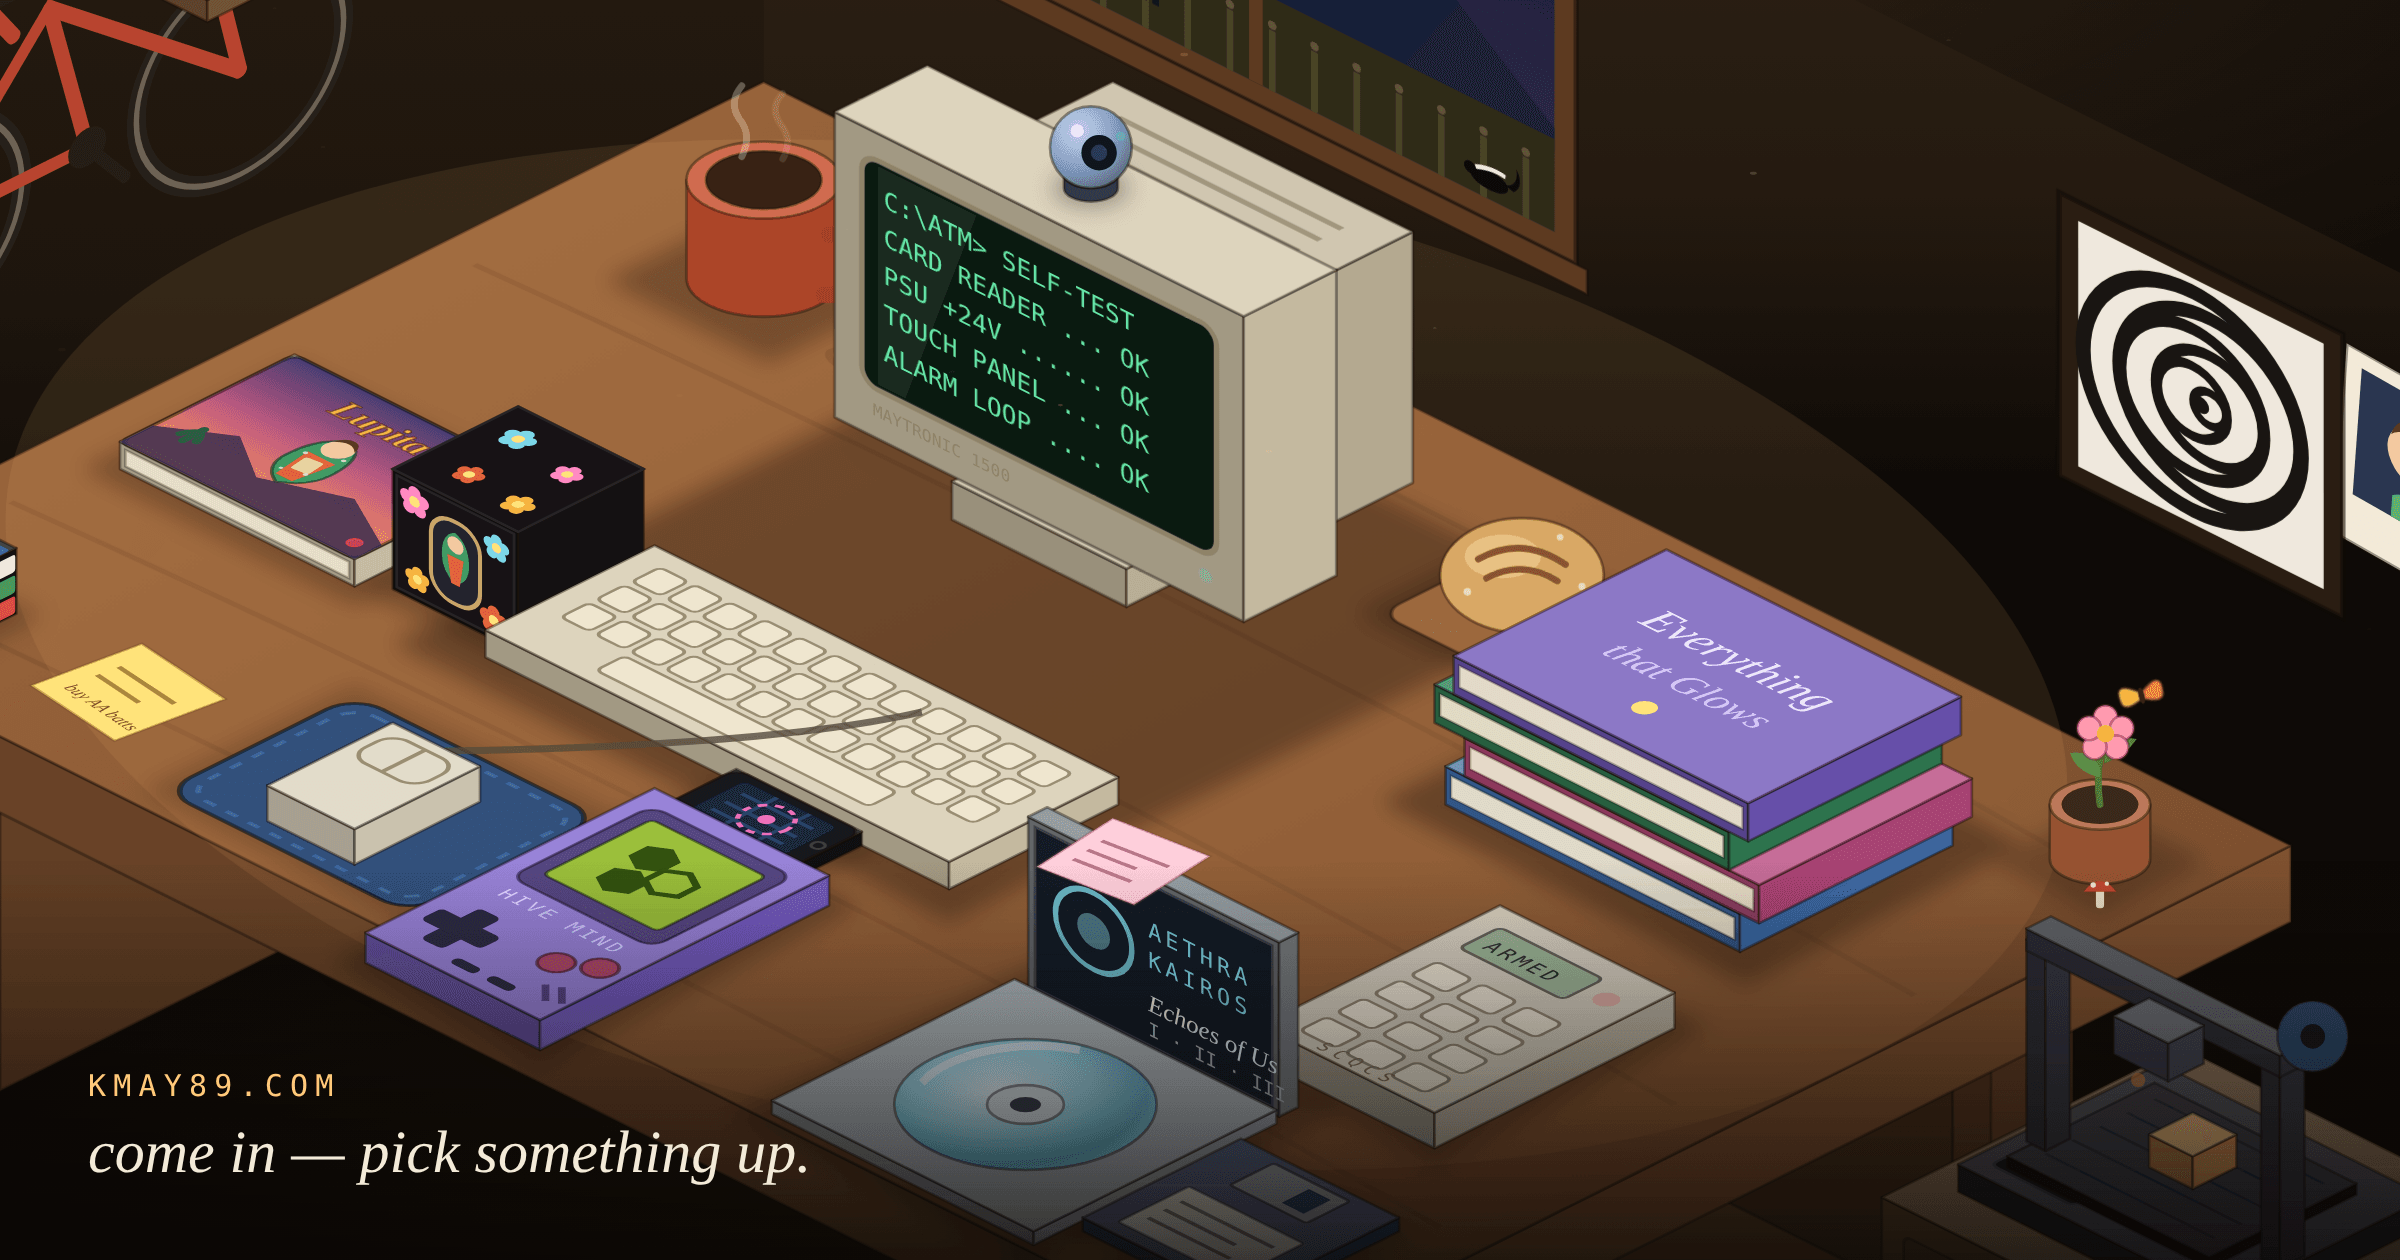
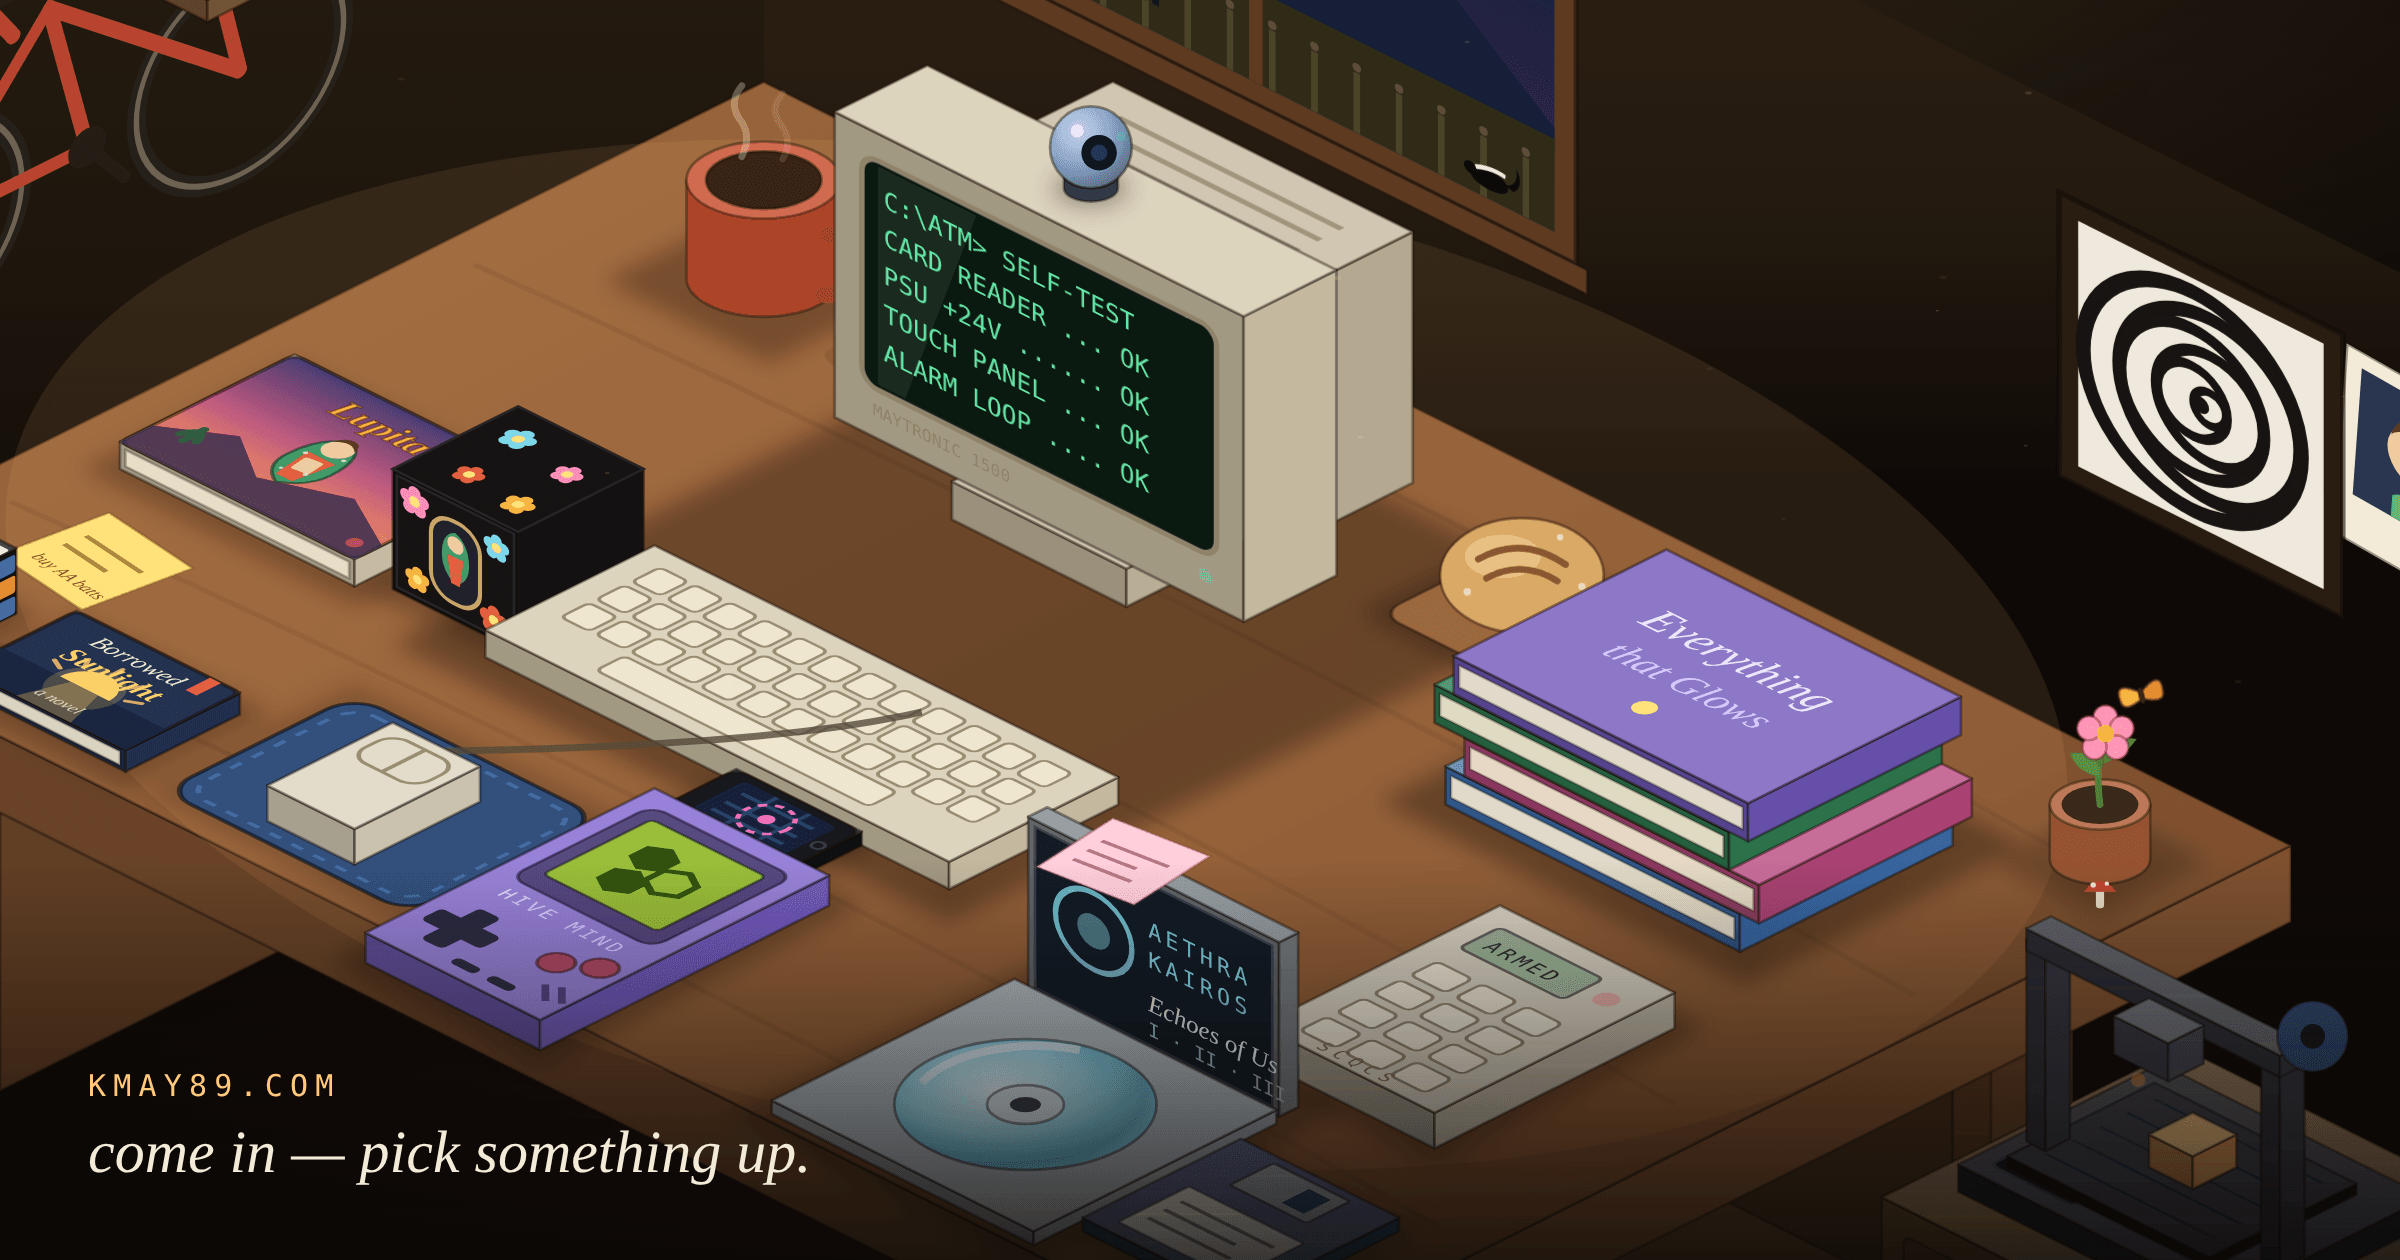
Add Borrowed Sunlight — a novel, new for summer 2026
A new world joins the desk: a paperback on the front-left edge with an
indigo dusk cover, a rising golden sun, and its light pooling down the
jacket. Clicking it (or the new legend tag) opens a dossier linking
borrowedsunlightnovel.com and github.com/kmay89/borrowedsunlight, with
a page-turn-into-morning-light sound. The sticky note moved up beside
the Lupita book to give the novel its spot, the meta description now
mentions the book, and the social card was regenerated so the novel
appears in link previews.

Claude-Session: https://claude.ai/code/session_015zhc3fKXKjyJ9YV23YyMLt

Changed region(s): [[0.0, 0.4024, 0.125, 0.619], [0.4375, 0.0929, 0.4688, 0.1548], [0.4062, 0.8976, 0.4375, 0.9286]]

diff --git a/index.html b/index.html
@@ -3,7 +3,7 @@
 <head>
 <meta charset="utf-8">
 <meta name="viewport" content="width=device-width, initial-scale=1">
-<meta name="description" content="Karl Meves — engineer, author, toymaker, founder. A little isometric desk of things I've been lucky to make: ATM hardware, a bilingual book &amp; doll, Hive Mind, the Everything series, SCQCS, ERRER Labs, and securaCV.">
+<meta name="description" content="Karl Meves — engineer, author, toymaker, founder. A little isometric desk of things I've been lucky to make: ATM hardware, a bilingual book &amp; doll, Hive Mind, the Everything series, Borrowed Sunlight, SCQCS, ERRER Labs, and securaCV.">
 <meta name="theme-color" content="#0e0a07">
 <link rel="canonical" href="https://kmay89.com/">
 <meta property="og:type" content="website">
@@ -39,6 +39,7 @@
     --c-out:#8fd18a;
     --c-puz:#d9a0e8;
     --c-utap:#ee6fbb;
+    --c-sun:#ffd166;
     --mono:ui-monospace,"Cascadia Code","Source Code Pro",Menlo,Consolas,monospace;
     --serif:"Iowan Old Style","Palatino Linotype",Palatino,Georgia,serif;
   }
@@ -483,6 +484,7 @@
     <button data-id="toy" style="--a:var(--c-toy)">Book + toy</button>
     <button data-id="hive" style="--a:var(--c-hive)">Hive Mind</button>
     <button data-id="series" style="--a:var(--c-series)">Everything series</button>
+    <button data-id="sun" style="--a:var(--c-sun)">Borrowed Sunlight</button>
     <button data-id="scqcs" style="--a:var(--c-scqcs)">SCQCS</button>
     <button data-id="vinyl" style="--a:var(--c-vinyl)">Aethra Kairos</button>
     <button data-id="cam" style="--a:var(--c-cam)">securaCV</button>
@@ -774,6 +776,7 @@
   S.push(shadowW(150,300,90,70,4,.18));          // mousepad
   S.push(shadowW(310,36,52,44,6,.24));           // sourdough board
   S.push(shadowW(34,332,26,26,4,.22));           // rubik's cube
+  S.push(shadowW(76,328,60,42,6,.24));           // Borrowed Sunlight novel
   S.push(shadowW(516,26,30,30,5,.22));           // flower pot
 
   /* ---------- charm: coffee mug (est. '89) ---------- */
@@ -824,6 +827,23 @@
     '<rect width="46" height="46" fill="#171215" stroke="#2c2026"/>' +
     flor(12,12,3,"#7cd7e8") + flor(34,16,2.6,"#ff8ac2") + flor(16,34,2.6,"#e2603f") + flor(36,36,2.8,"#f5b63f"));
   S.push(wrapObj("toy","Lupita — book + doll · 3 awards","#ff8a5c",toy));
+
+  /* ---------- sun: Borrowed Sunlight — a novel, new for summer 2026 ---------- */
+  var sunb = box(76,328,0,60,42,8,"#233252");
+  sunb += gLeft(76,370,8,'<rect x="2" y="1.5" width="56" height="5" fill="#efe6cf" opacity=".9" stroke="rgba(26,14,6,.3)"/>');
+  sunb += gTop(76,328,8,
+    '<rect width="60" height="42" rx="2.5" fill="#233252" stroke="rgba(26,14,6,.5)" stroke-width="1.5"/>' +
+    '<rect y="27" width="60" height="15" fill="#1a2440"/>' +
+    '<circle cx="30" cy="27" r="11" fill="#ffd166" opacity=".22"/>' +
+    '<path d="M21 27 a9 9 0 0 1 18 0 z" fill="#ffd166"/>' +
+    '<polygon points="25,27 35,27 40,42 20,42" fill="rgba(255,209,102,.3)"/>' +
+    '<g stroke="#ffd166" stroke-width="1.4" stroke-linecap="round" opacity=".8">' +
+      '<path d="M14 22 l4 2 M46 22 l-4 2 M30 13 l0 4 M20 15.5 l2 3.4 M40 15.5 l-2 3.4"/></g>' +
+    '<rect x="49" y="0" width="4" height="9" fill="#e2603f"/>' +
+    txt(30,10,"Borrowed",8,"#f4e9d8",SERIF + ' text-anchor="middle" font-style="italic"') +
+    txt(30,20,"Sunlight",9.5,"#ffd166",SERIF + ' text-anchor="middle" font-style="italic" font-weight="bold"') +
+    txt(30,38,"a novel",5.5,"#efe6cf",SERIF + ' text-anchor="middle" font-style="italic" opacity=".85"'));
+  S.push(wrapObj("sun","Borrowed Sunlight — a novel, new for summer 2026","#ffd166",sunb));
 
   /* ---------- board: beige CRT + keyboard (the machine years) ---------- */
   var crt = "";
@@ -928,7 +948,7 @@
   S.push(wrapObj("utap","uTap — the campus app","#ee6fbb",ph));
 
   /* ---------- charm: sticky note (front-left) ---------- */
-  S.push('<g aria-hidden="true">' + gTop(92,320,0,
+  S.push('<g aria-hidden="true">' + gTop(38,278,0,
     '<rect width="36" height="36" fill="#ffe37a" stroke="rgba(120,90,20,.4)"/>' +
     '<g stroke="#7a5c16" stroke-width="1.6" opacity=".65" fill="none">' +
       '<path d="M6 12 h24"/><path d="M6 19 h18"/></g>' +
@@ -1138,6 +1158,16 @@
         {label:"everything-that-knows.com", href:"https://everything-that-knows.com"}
       ]
     },
+    sun: {
+      kicker: "Fiction · New for Summer 2026",
+      title: "Borrowed Sunlight",
+      story: "The newest trinket on the desk, still warm from the press: Borrowed Sunlight, a novel — new fiction arriving summer 2026. I won't say much here; the good parts are better found than told. It has its own little home on the web, and like everything else on this desk, its bones live on GitHub. Come read a while.",
+      chips: ["A novel","Fiction","Summer 2026"],
+      links: [
+        {label:"borrowedsunlightnovel.com", href:"https://borrowedsunlightnovel.com"},
+        {label:"github.com/kmay89/borrowedsunlight", href:"https://github.com/kmay89/borrowedsunlight"}
+      ]
+    },
     scqcs: {
       kicker: "Founder · Security",
       title: "SCQCS — The Alarm Thread, All Grown Up",
@@ -1268,6 +1298,11 @@
     series: function(){ // page turn
       noise({filter:"bandpass", freq:600, freqEnd:2600, q:1.1, dur:0.28, g:0.13});
       tone(523.25, {type:"sine", at:0.22, dur:0.25, g:0.05});
+    },
+    sun: function(){ // a page turn into warm morning light
+      noise({filter:"bandpass", freq:500, freqEnd:2200, q:1.1, dur:0.26, g:0.11});
+      tone(659.25, {type:"sine", at:0.18, dur:0.35, g:0.05});
+      tone(830.61, {type:"sine", at:0.30, dur:0.45, g:0.045});
     },
     scqcs: function(){ // alarm arming chirp
       tone(1200, {type:"sine", dur:0.07, g:0.09});